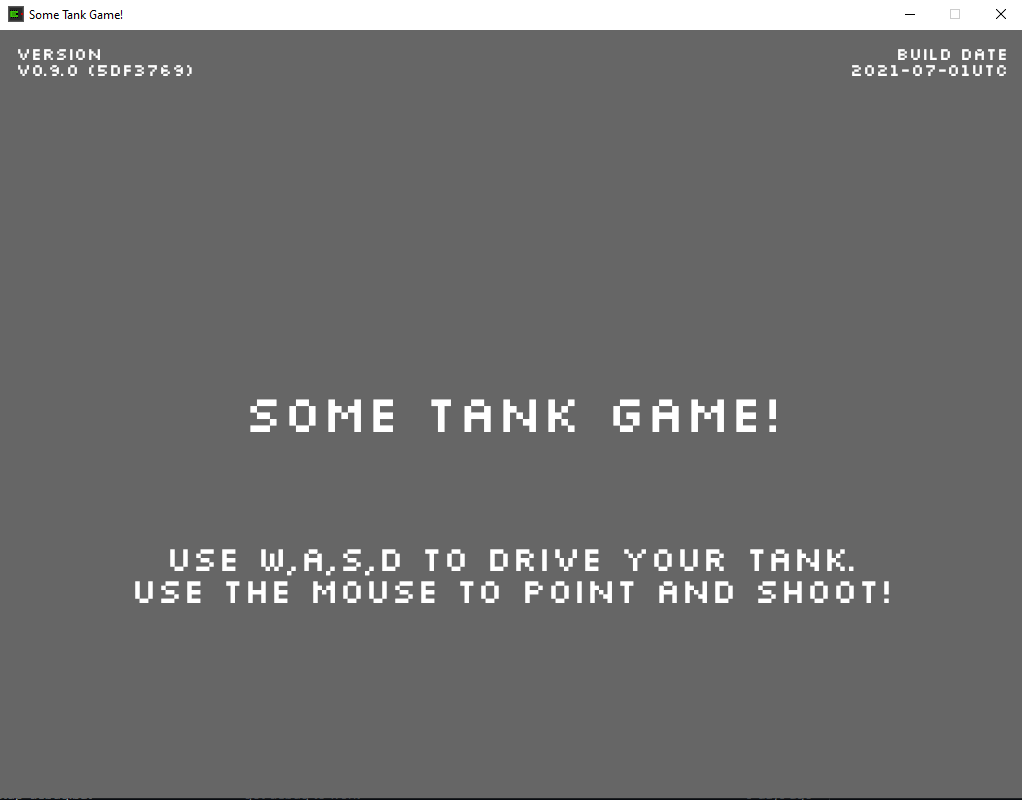
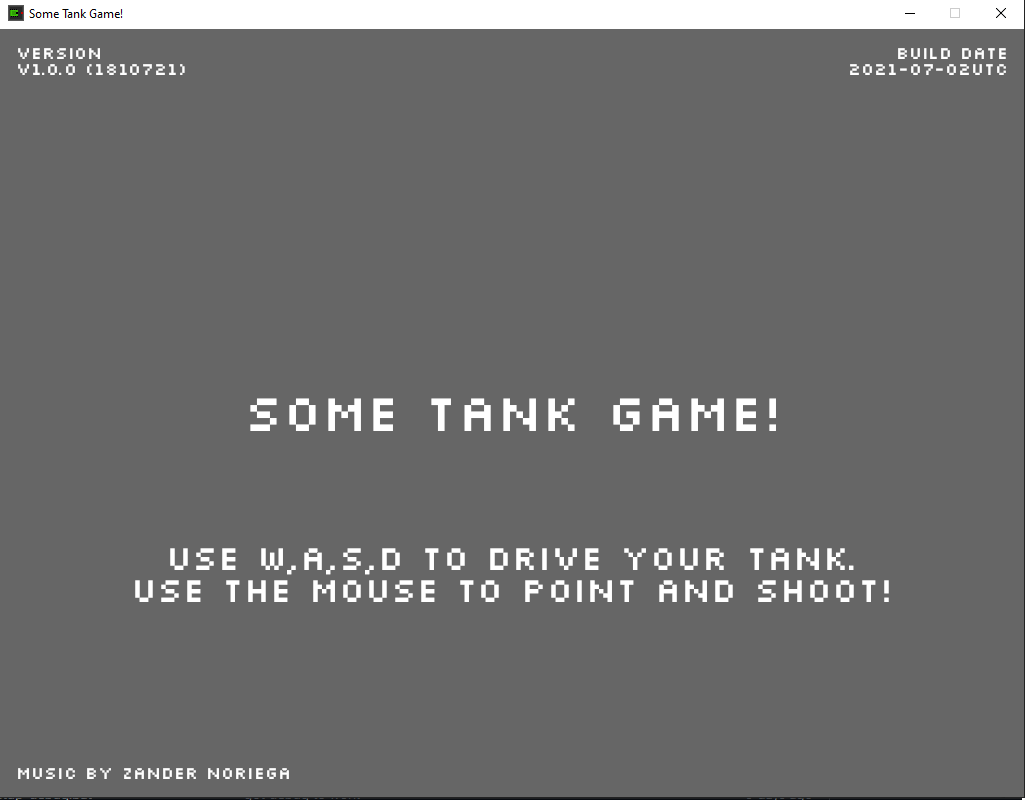
updated some stuff related to installer and added credits to splash

diff --git a/src/hud/mod.rs b/src/hud/mod.rs
@@ -50,6 +50,7 @@ pub struct Hud {
     pub top_left_text: String,
     pub top_right_text: String,
     pub bottom_center_text: String,
+    pub bottom_left_text: String,
     pub center_text: String,
     pub foreground: Color,
     pub background: Color,
@@ -65,6 +66,7 @@ impl Hud {
         self.top_right_text = "".into();
         self.center_text = "".into();
         self.bottom_center_text = "".into();
+        self.bottom_left_text = "".into();
     }
 
     pub fn clear(&mut self) {
@@ -110,6 +112,7 @@ impl Default for Hud {
     fn default() -> Self {
         Self {
             console_text: "".into(),
+            bottom_left_text: "".into(),
             top_left_text: "".into(),
             top_right_text: "".into(),
             center_text: "".into(),
@@ -132,6 +135,7 @@ pub enum HudElement {
     Background,
     BottomCenter,
     Console,
+    BottomLeft
 }
 
 pub struct FPSText;
@@ -249,6 +253,38 @@ fn hud_initialization_system(
                 ..Default::default()
             })
             .insert(HudElement::TopLeft);
+
+        // bottom-left text
+        parent
+        .spawn_bundle(TextBundle {
+            style: Style {
+                align_self: AlignSelf::FlexEnd,
+                position_type: PositionType::Absolute,
+                position: Rect {
+                    bottom: Val::Px(16.0),
+                    left: Val::Px(16.0),
+                    ..Default::default()
+                },
+                ..Default::default()
+            },
+            // Use the `Text::with_section` constructor
+            text: Text::with_section(
+                // Accepts a `String` or any type that converts into a `String`, such as `&str`
+                "",
+                TextStyle {
+                    font: asset_server.load("fonts/default.ttf"),
+                    font_size,
+                    color: Color::WHITE,
+                },
+                // Note: You can use `Default::default()` in place of the `TextAlignment`
+                TextAlignment {
+                    horizontal: HorizontalAlign::Left,
+                    ..Default::default()
+                },
+            ),
+            ..Default::default()
+        })
+        .insert(HudElement::BottomLeft);
 
         // right text
         parent
@@ -428,6 +464,9 @@ fn update_text(hud: ResMut<Hud>, query: Query<(&mut Text, &HudElement)>) {
         HudElement::TopLeft => {
             set_text(&mut text, &hud.top_left_text);
         }
+        HudElement::BottomLeft => {
+            set_text(&mut text, &hud.bottom_left_text);
+        }
         HudElement::Center => {
             set_text(&mut text, &hud.center_text);
         }
@@ -440,6 +479,7 @@ fn update_text(hud: ResMut<Hud>, query: Query<(&mut Text, &HudElement)>) {
         HudElement::Console => {
             set_text(&mut text, &hud.console_text);
         }
+        
         _ => {}
     });
 }

diff --git a/src/splash/mod.rs b/src/splash/mod.rs
@@ -9,6 +9,7 @@ fn show_splash(mut hud:ResMut<Hud>) {
     hud.top_right_text = format!("Build Date\n{}", env!("BUILD_DATE"));
     hud.top_left_text = format!("Version\nV{} ({})", env!("CARGO_PKG_VERSION"), env!("GIT_HASH"));
     hud.bottom_center_text = "Use W,A,S,D to drive your tank.\nUse the mouse to point and shoot!".into();
+    hud.bottom_left_text = "Music by Zander Noriega".into();
 }
 
 fn hide_splash(mut hud:ResMut<Hud>) {

diff --git a/devlog.md b/devlog.md
@@ -1,3 +1,4 @@
+- 2021-07-02  20m updated some stuff related to installer and added credits to splash
 - 2021-07-01  30m fixed corrupted setup
 - 2021-06-29  45m added icon to .exe and icon to application.
 - 2021-06-28  60m added exit dialog, added background coloring of hud
